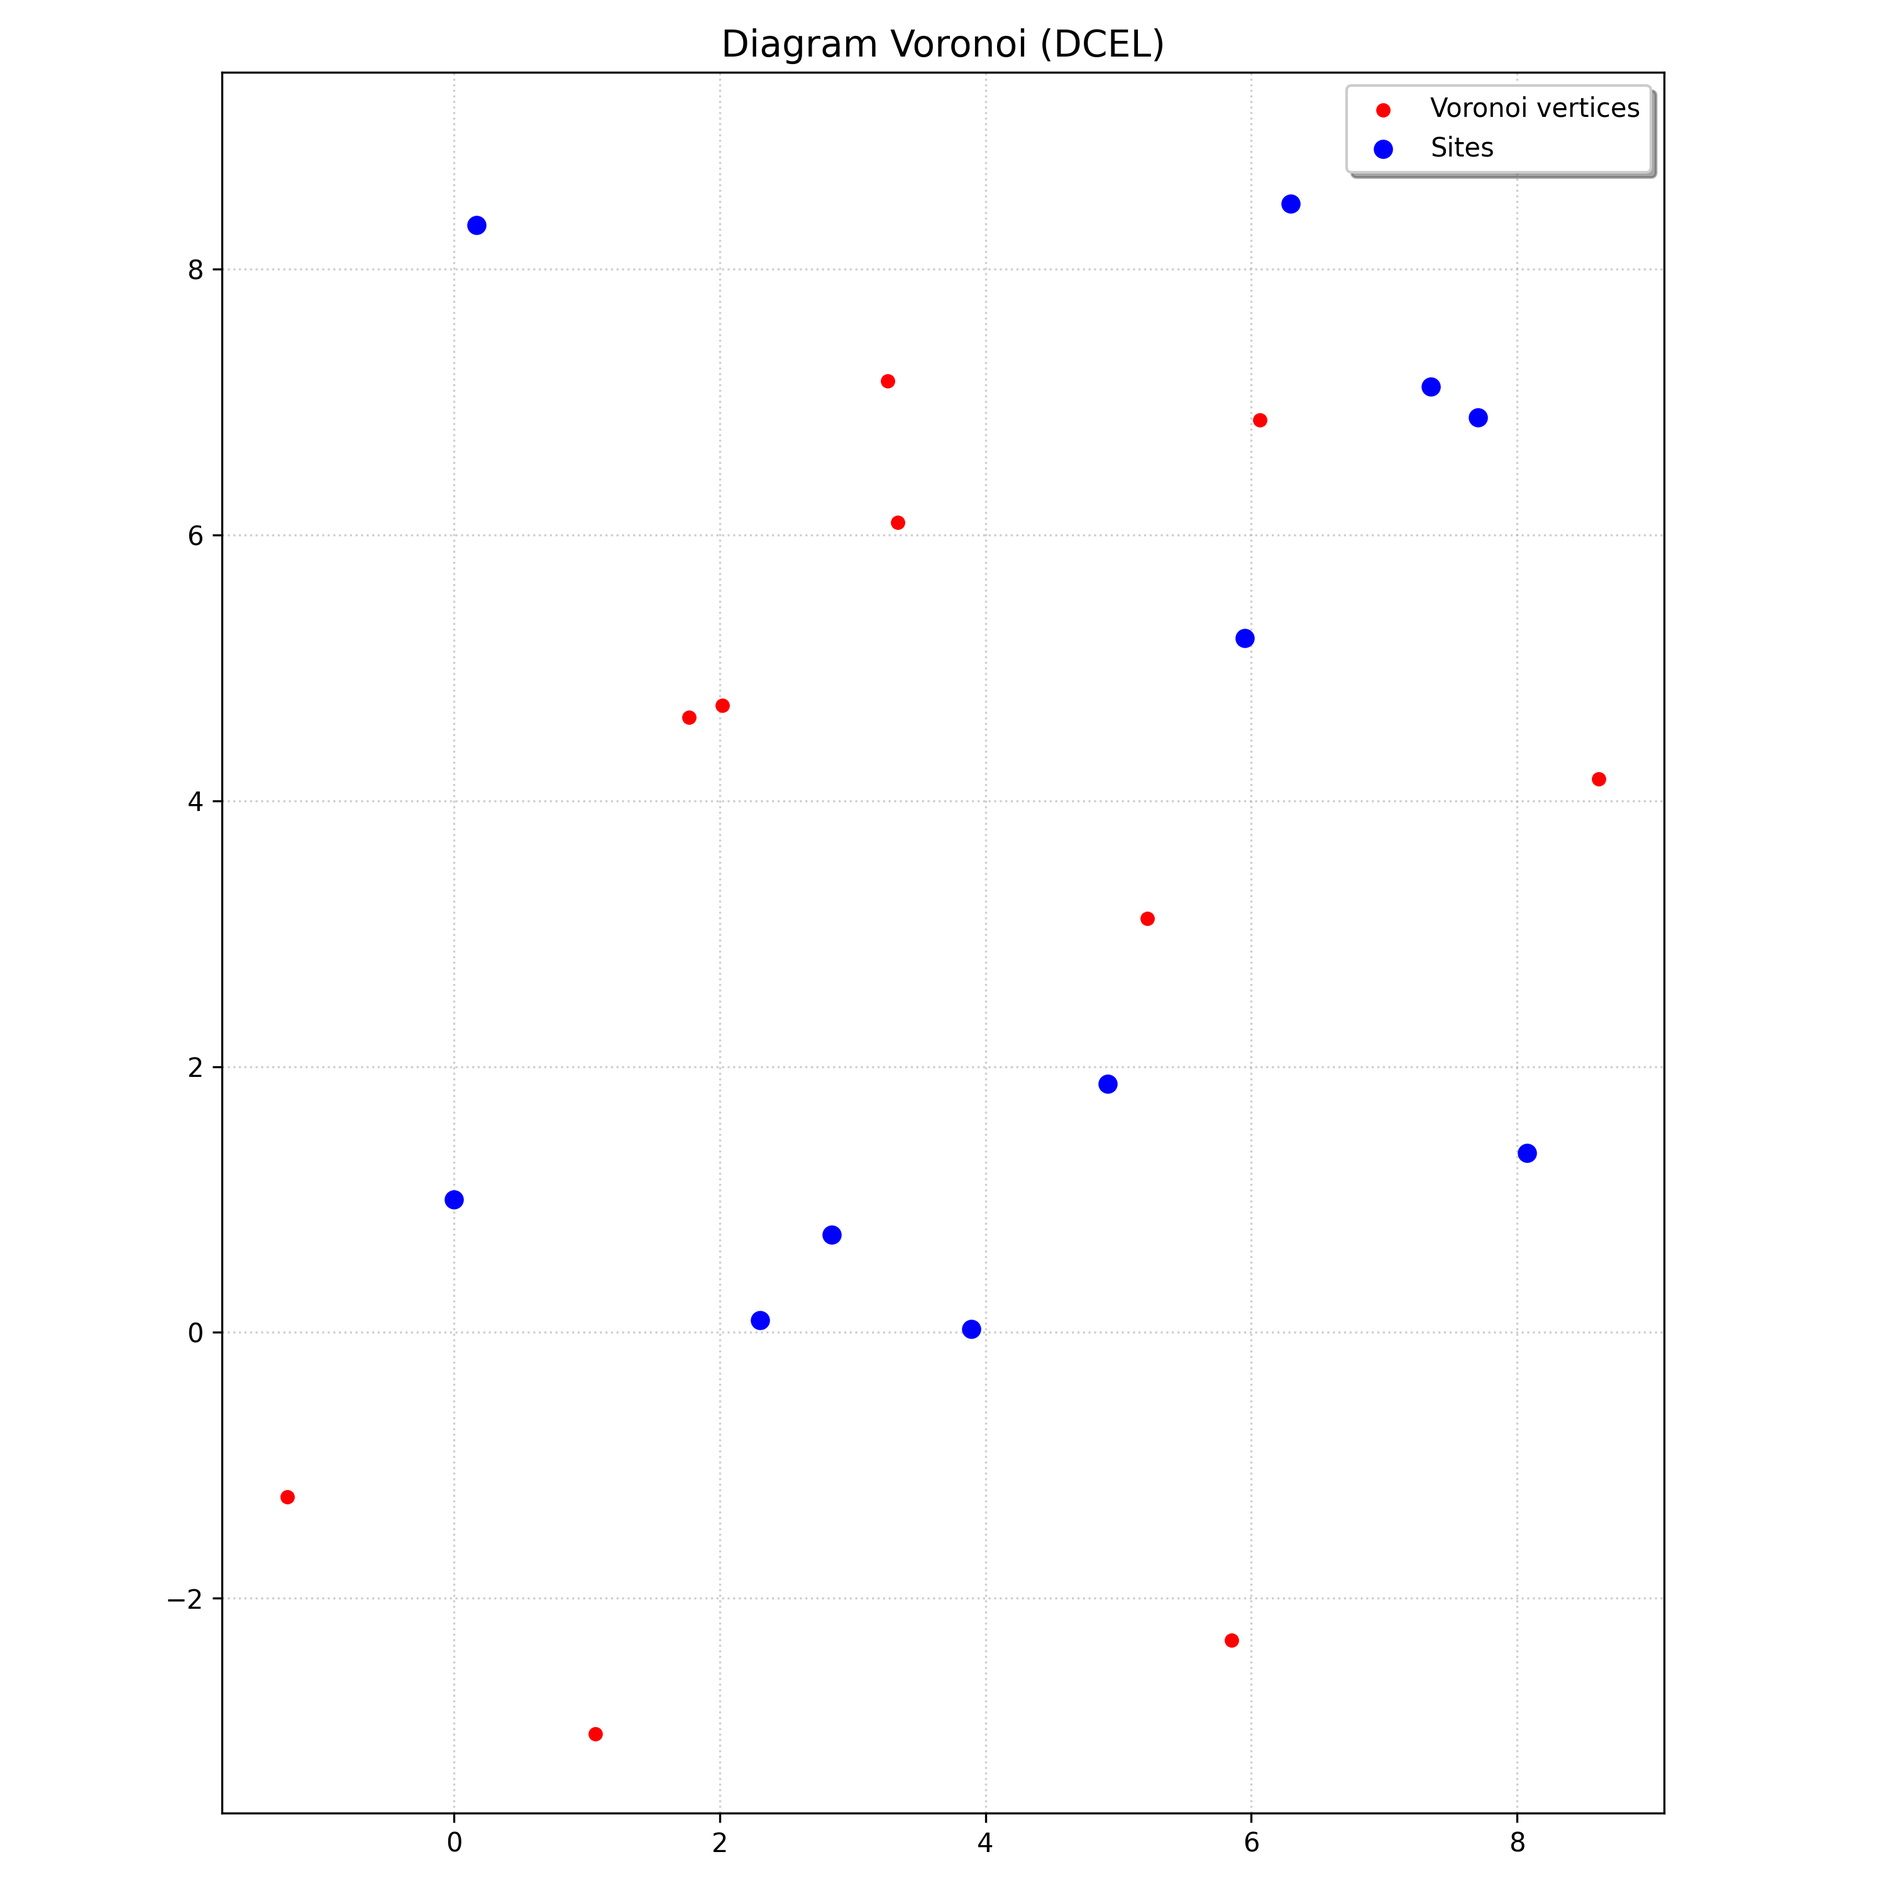
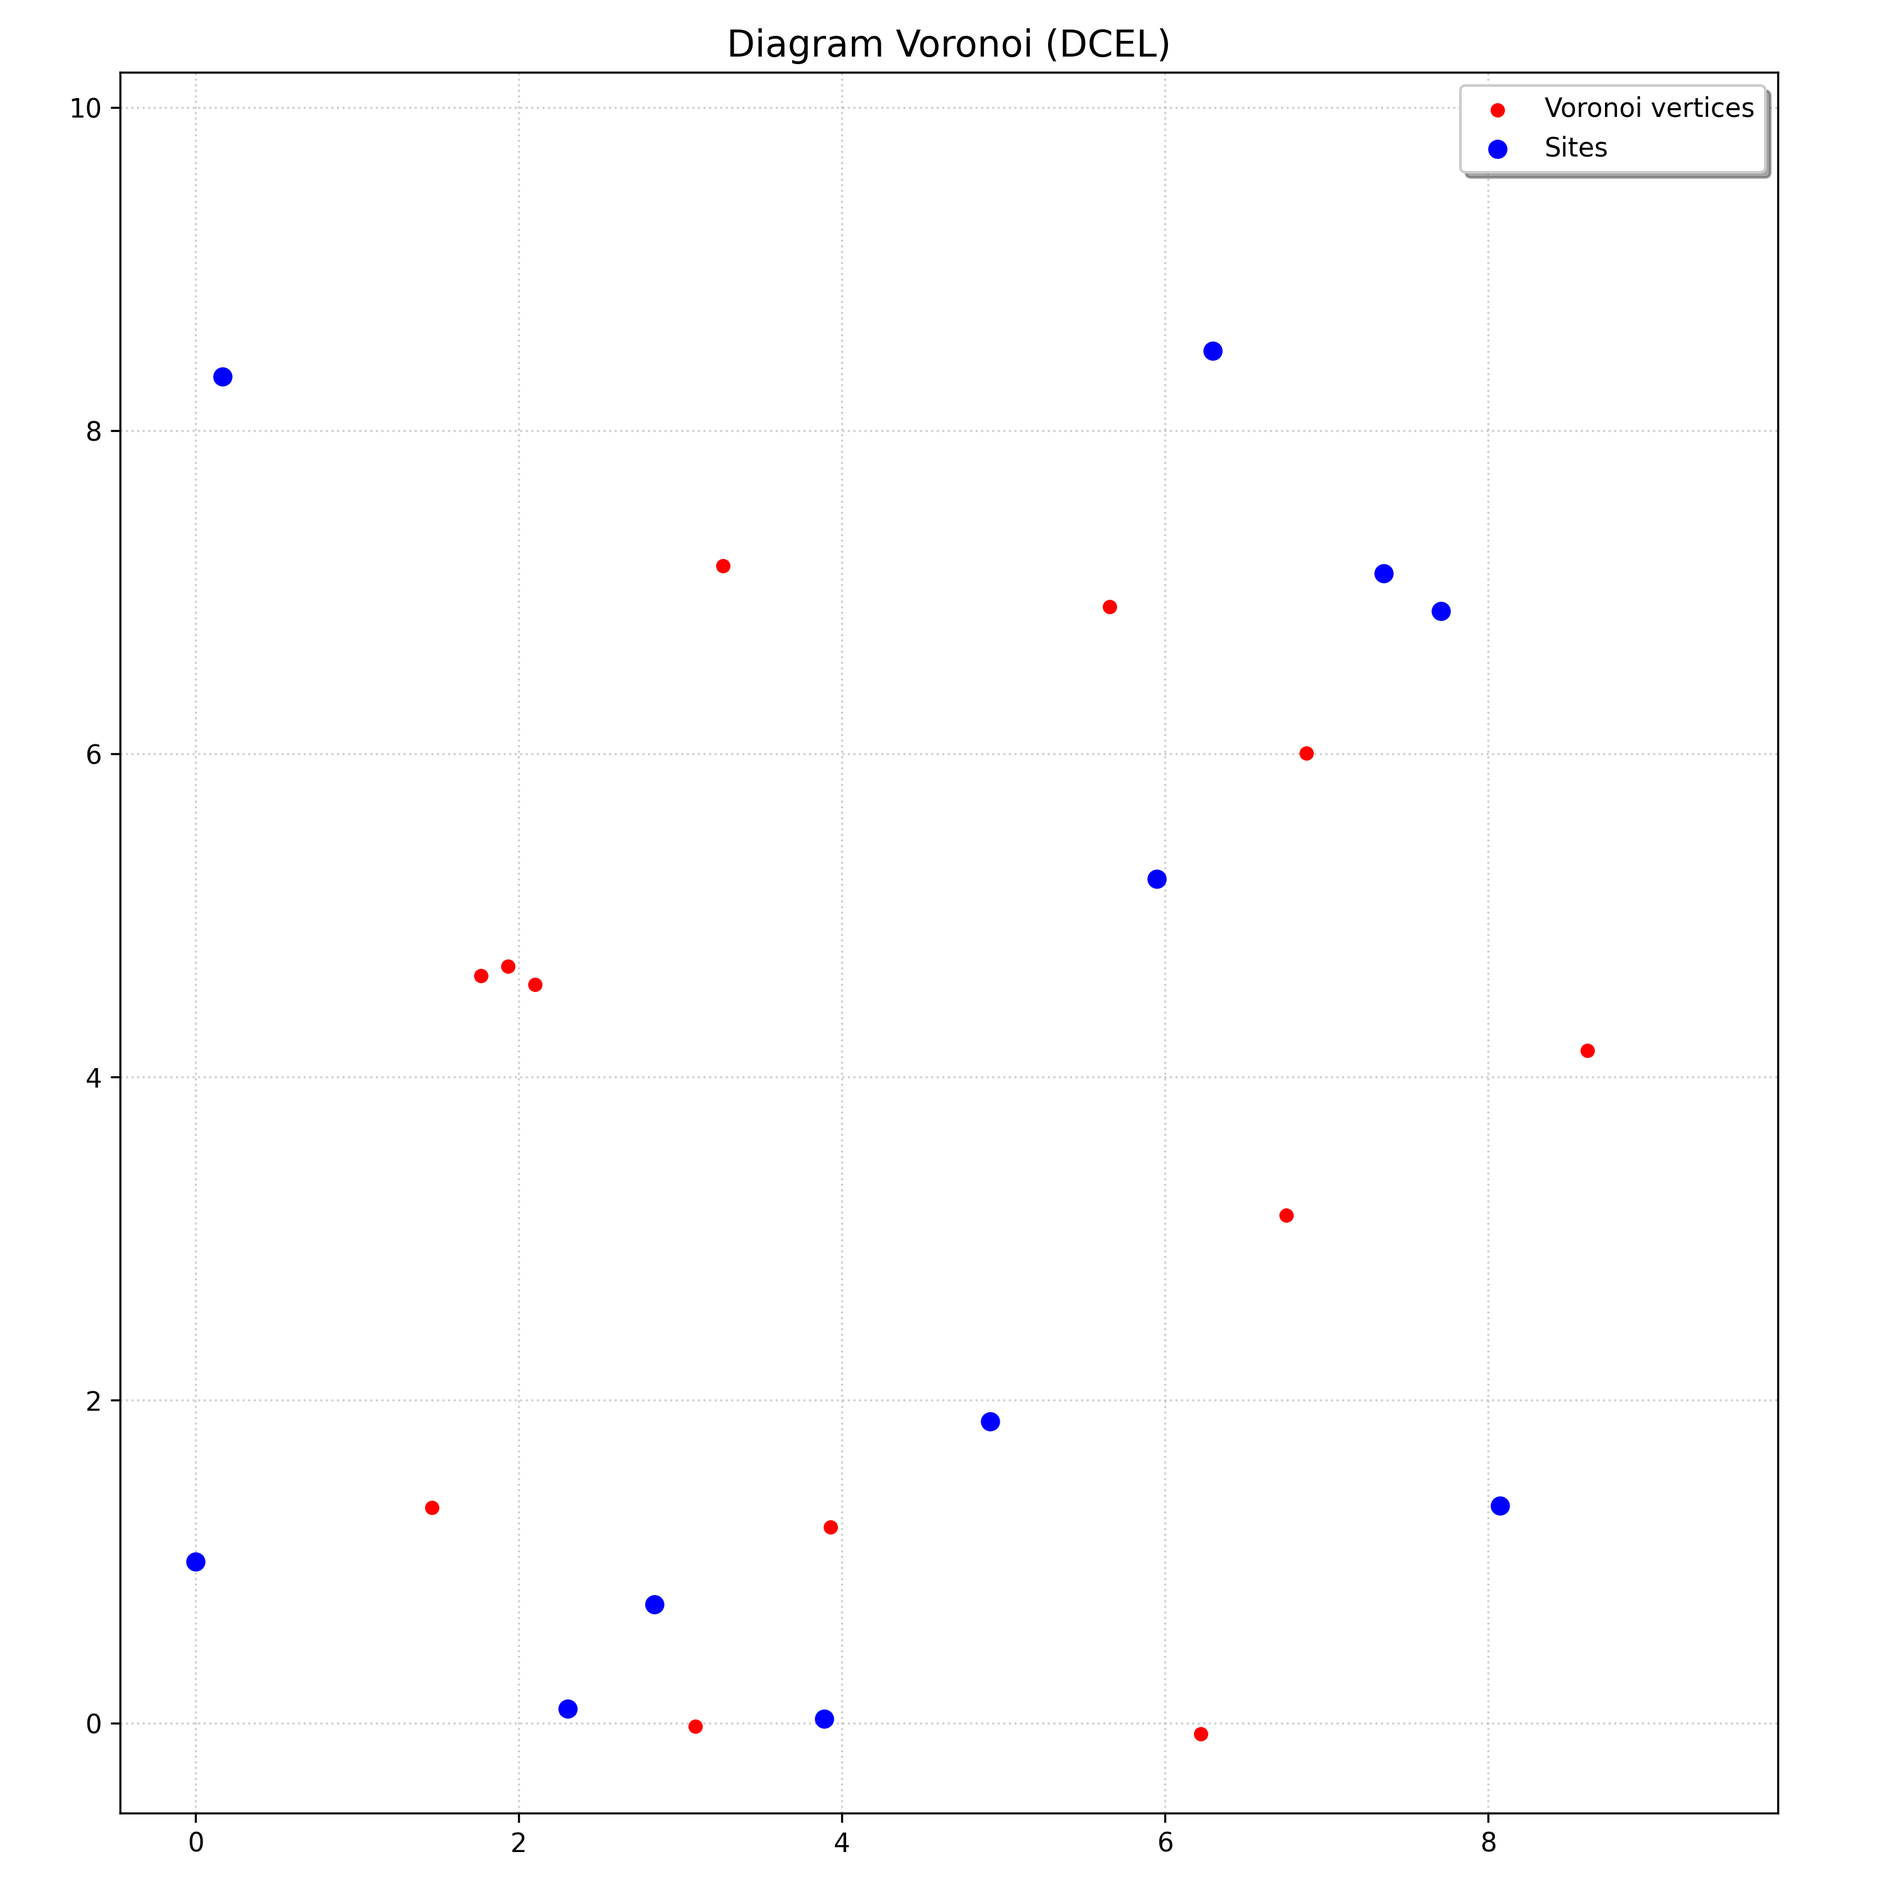
fix: FOUND THE FCKING ISSUE; count_x_breakpoint was wrong, so wrote func based on foronoi repo

diff --git a/src/structures/BST.py b/src/structures/BST.py
@@ -1,7 +1,10 @@
 from __future__ import annotations
 
+from logging import root
 import math
 import queue
+
+from src.structures.QE import SiteEvent
 
 class Root:
     def __init__(self, node=None):
@@ -99,6 +102,26 @@ class Root:
             # idziemy wyżej
             current = current.parent
 
+    def find_arc_above(root, event: SiteEvent, y_sweep: float):
+        curr = root.node
+        x = event.centre[0]
+
+        while isinstance(curr, Node):
+            xb = curr.count_x_breakpoint(y_sweep)
+            print("Breakpoint x for points ", curr.left_point, curr.right_point, " at y=", y_sweep, " is ", xb)
+            if xb is None:
+                raise RuntimeError(
+                    f"Invalid breakpoint for points "
+                    f"{curr.left_point}, {curr.right_point} at y={y_sweep}"
+                )
+
+            if x < xb:
+                curr = curr.left_child
+            else:
+                curr = curr.right_child
+
+        return curr
+
 
 class Node:
     """Break point on beachline, keeps 2 sorted centres by x,
@@ -113,31 +136,71 @@ class Node:
         self.right_child = None
         self.half_edge = None
 
-    def count_x_breakpoint(self,  y_sweep: float):
-        """Counts x breakpoint for node of 2 points and sweepline on new centre"""
+    def count_x_breakpoint(self, y_sweep: float):
+        """
+        Oblicza współrzędną x punktu przecięcia dwóch parabol.
+        
+        Parameters
+        ----------
+        y_sweep : float
+            Pozycja linii zamiatającej (sweep line)
+        
+        Returns
+        -------
+        float or None
+            Współrzędna x punktu przecięcia lub None jeśli nie istnieje
+        """
         x1, y1 = self.left_point
         x2, y2 = self.right_point
-
+        
+        # Przypadek gdy oba punkty mają tę samą współrzędną y
+        # (breakpoint jest dokładnie pośrodku)
         if y1 == y2:
-                return (x1 + x2) / 2
+            return (x1 + x2) / 2
         
-        a = y2 - y1
-        b = 2 * (-y2 * x1 + y1 * x2 + y_sweep * x1 - y_sweep * x2)
-        c = (y2 - y_sweep) * (x1**2 + y1**2 - y_sweep**2) - (y1 - y_sweep) * (
-            x2**2 + y2**2 - y_sweep**2
-        )
-
-        delta = b*b - 4*a*c
-        if delta < 0 or a == 0:
-                return None 
+        # Przypadek gdy lewy punkt jest na linii zamiatającej
+        if y1 == y_sweep:
+            return x1
         
-        x1_bp = (-b+math.sqrt(delta)) / (2*a)
-        x2_bp = (-b - math.sqrt(delta)) / (2 * a)
-
-        if x1 < x2:
-            return max(x1_bp, x2_bp)  # Prawy breakpoint
-        else:
-            return min(x1_bp, x2_bp)
+        # Przypadek gdy prawy punkt jest na linii zamiatającej
+        if y2 == y_sweep:
+            return x2
+        
+        # Podstawowe współczynniki równania
+        u = 2 * (y1 - y_sweep)
+        v = 2 * (y2 - y_sweep)
+        
+        # Sprawdzenie czy któryś mianownik jest zerem (parabola zdegenerowana)
+        if u == 0 or v == 0:
+            return None
+        
+        # Rozwiązanie równania kwadratowego:
+        # 1/u * (x² - 2*x1*x + x1² + y1² - y_sweep²) = 1/v * (x² - 2*x2*x + x2² + y2² - y_sweep²)
+        
+        # Po przekształceniu do postaci: (u-v)x² + 2(x2*v - x1*u)x + ... = 0
+        # zgodnie z algorytmem Wolframa Alpha użytym w foronoi:
+        
+        a = u - v
+        
+        if a == 0:
+            return None
+        
+        # Obliczenie pierwiastka z wzoru z foronoi
+        # x = -(sqrt(v * (x1² * u - 2*x1*x2*u + y1²*(u-v) + x2²*u) + y2²*u*(v-u) + y_sweep²*(u-v)²) + x1*v - x2*u) / (u-v)
+        
+        term1 = x1**2 * u - 2*x1*x2*u + y1**2*(u-v) + x2**2*u
+        term2 = y2**2 * u * (v-u)
+        term3 = y_sweep**2 * (u-v)**2
+        
+        discriminant = v * term1 + term2 + term3
+        
+        if discriminant < 0:
+            return None
+        
+        sqrt_term = math.sqrt(discriminant)
+        x = -(sqrt_term + x1*v - x2*u) / a
+        
+        return x
 
 
 class Leaf:
@@ -186,32 +249,3 @@ class Leaf:
             curr = curr.left_child
 
         return curr
-
-    @staticmethod
-    def remove_leaf(leaf: Leaf, root_obj: Root):
-        if leaf.parent is None:
-            # Jeśli liść jest jedynym elementem w drzewie
-            root_obj.node = None
-            return
-
-        parent = leaf.parent
-        grandparent = parent.parent
-        
-        # Wybieramy "brata" usuwanego liścia (drugie dziecko rodzica)
-        sibling = parent.right_child if parent.left_child == leaf else parent.left_child
-        
-        if grandparent is None:
-            # Rodzic był korzeniem, teraz brat staje się nowym korzeniem
-            root_obj.node = sibling
-            sibling.parent = None
-        else:
-            # Podpinamy brata bezpośrednio do dziadka
-            if grandparent.left_child == parent:
-                grandparent.left_child = sibling
-            else:
-                grandparent.right_child = sibling
-            sibling.parent = grandparent
-
-        # Opcjonalne: Czyszczenie referencji dla garbage collectora
-        leaf.parent = None
-        parent.left_child = parent.right_child = parent.parent = None

diff --git a/src/algorithms/site.py b/src/algorithms/site.py
@@ -12,7 +12,7 @@ def handle_site_event(root: Root, new_event: SiteEvent, queue: EventsQueue, dcel
         return root 
             
     # 2. Finds leaf of arc from beach line above the new point
-    arc_above = find_arc_above(root, new_event, y_sweep)
+    arc_above = Root.find_arc_above(root, new_event, y_sweep)
     print("Point representing arc above the new event: ", arc_above.centre)
 
     # Removes false alarm
@@ -55,7 +55,7 @@ def handle_site_event(root: Root, new_event: SiteEvent, queue: EventsQueue, dcel
             new_subtree.left_child,
             new_subtree.right_child.left_child,
         ]
-        check_circle_event(left_three_arcs, y_sweep, queue)
+        CircleEvent.check_circle_event(left_three_arcs, y_sweep, queue)
 
     if right_neighbour:
         right_three_arcs = [
@@ -63,27 +63,10 @@ def handle_site_event(root: Root, new_event: SiteEvent, queue: EventsQueue, dcel
             new_subtree.right_child.right_child,
             right_neighbour,
         ]
-        check_circle_event(right_three_arcs, y_sweep, queue)
+        CircleEvent.check_circle_event(right_three_arcs, y_sweep, queue)
 
     return root
 
-def find_arc_above(root: Root, event: SiteEvent, y_sweep:float):
-    """Finds arc above new found point by sweepline in BST"""
-    curr = root.node
-    new_point = event.centre
-    while isinstance(curr, Node):
-        print("actual points of node:", curr.left_point, curr.right_point)
-
-        xb = curr.count_x_breakpoint(y_sweep)
-        print("breakpoint:", xb)
-        
-        if  new_point[0] <= xb:
-            curr = curr.left_child
-        else:
-            curr = curr.right_child
-        
-    print("\nFound leaf above point:", curr.centre, "\n")
-    return curr
 
 def replace_with_subtree1(arc_above: Leaf, new_centre: list, dcel: DCEL) -> Node:
     """
@@ -222,55 +205,3 @@ def replace_with_subtree(arc_above: Leaf, new_centre: list, dcel: DCEL):
     dcel.half_edges.extend([edge_AB, edge_BA])
 
     return subtree_root
-
-def check_circle_event(arcs: list[Leaf], y_sweep: float, queue: EventsQueue):
-    """
-    Checks whether three consecutive arcs generate a valid circle event.
-    If yes, inserts it into the event queue.
-    """
-
-    a, b, c = arcs
-    A = a.centre
-    B = b.centre
-    C = c.centre
-
-    # --- usuwamy stare zdarzenie środkowego łuku ---
-    if b.circle_event is not None:
-        queue.remove_from_queue(b.circle_event)
-        b.circle_event = None
-
-    # --- orientacja: MUSI być zgodna z ruchem wskazówek zegara ---
-    # det < 0 → clockwise
-    det = (B[0] - A[0]) * (C[1] - A[1]) - (B[1] - A[1]) * (C[0] - A[0])
-
-    if det > 0:
-        return
-
-    # --- środek okręgu ---
-    ux, uy = CircleEvent.compute_circle_center(A, B, C)
-    if ux is None or uy is None:
-        return
-
-    # --- promień ---
-    dx = ux - B[0]
-    dy = uy - B[1]
-    radius = math.hypot(dx, dy)
-
-    # --- y zdarzenia (najniższy punkt okręgu) ---
-    event_y = uy - radius
-
-    # zdarzenie musi być poniżej sweep line
-    # if event_y >= y_sweep:
-    #     return
-
-    # --- tworzymy zdarzenie ---
-    event_point = (ux, event_y)
-    event = CircleEvent(point=event_point, leaf_pointer=b)
-    event.circle_center = (ux, uy)
-    event.radius = radius
-    event.triple_arcs = (a, b, c)
-    event.triple_points = (A, B, C)
-    event.is_valid = True
-
-    b.circle_event = event
-    queue.insert_event(event)

diff --git a/src/structures/QE.py b/src/structures/QE.py
@@ -1,4 +1,7 @@
-from src.structures.BST import Leaf
+from typing import TYPE_CHECKING
+
+if TYPE_CHECKING:
+    from src.structures.QE import Leaf
 import math
 
 class EventsQueue:
@@ -13,12 +16,6 @@ class EventsQueue:
 
         self.all_events = sorted(self.site_events, key = lambda event:event.centre[1], reverse=True)
         
-    def inicialize_queue(self):
-        """Initialize queue by filling up with upcoming site_events and sorts them descending by y"""
-        self.points.sort(key=lambda point:point[1], reverse=True)
-        for point in self.points:
-            self.all_events.append(SiteEvent(point))
-
     def insert_event(self, event):
         self.all_events.append(event)
         self.all_events.sort(key=lambda e: (e.centre[1], 1 if isinstance(e, CircleEvent) else 0))
@@ -38,7 +35,7 @@ class SiteEvent:
 
 
 class CircleEvent:
-    def __init__(self, point: list, leaf_pointer: Leaf):
+    def __init__(self, point: list, leaf_pointer: "Leaf"):
         self.centre = point
         self.leaf_pointer = leaf_pointer
         self.radius = None
@@ -80,14 +77,55 @@ class CircleEvent:
         return ox, oy
 
     @staticmethod
-    def _calculate_angle(point, center):
-        return math.atan2(point[1] - center[1], point[0]- center[0])
+    def check_circle_event(arcs: list(), y_sweep: float, queue: EventsQueue):
+        """
+        Checks whether three consecutive arcs generate a valid circle event.
+        If yes, inserts it into the event queue.
+        """
 
-    @staticmethod
-    def check_clockwise(a, b, c, center):
-        ang_a = CircleEvent._calculate_angle(a, center)
-        ang_b = CircleEvent._calculate_angle(b, center)
-        ang_c = CircleEvent._calculate_angle(c, center)
+        a, b, c = arcs
+        A = a.centre
+        B = b.centre
+        C = c.centre
 
-        return (ang_c - ang_a) % (2 * math.pi) <= (ang_c - ang_b) % (2 * math.pi)
+        # --- usuwamy stare zdarzenie środkowego łuku ---
+        if b.circle_event is not None:
+            queue.remove_from_queue(b.circle_event)
+            b.circle_event = None
+
+        # --- orientacja: MUSI być zgodna z ruchem wskazówek zegara ---
+        # det < 0 → clockwise
+        det = (B[0] - A[0]) * (C[1] - A[1]) - (B[1] - A[1]) * (C[0] - A[0])
+
+        if det > 0:
+            return
+
+        # --- środek okręgu ---
+        ux, uy = CircleEvent.compute_circle_center(A, B, C)
+        if ux is None or uy is None:
+            return
+
+        # --- promień ---
+        dx = ux - B[0]
+        dy = uy - B[1]
+        radius = math.hypot(dx, dy)
+
+        # --- y zdarzenia (najniższy punkt okręgu) ---
+        event_y = uy - radius
+
+        # zdarzenie musi być poniżej sweep line
+        if event_y >= y_sweep:
+            return
+
+        # --- tworzymy zdarzenie ---
+        event_point = (ux, event_y)
+        event = CircleEvent(point=event_point, leaf_pointer=b)
+        event.circle_center = (ux, uy)
+        event.radius = radius
+        event.triple_arcs = (a, b, c)
+        event.triple_points = (A, B, C)
+        event.is_valid = True
+
+        b.circle_event = event
+        queue.insert_event(event)
 

diff --git a/src/algorithms/circle.py b/src/algorithms/circle.py
@@ -3,7 +3,6 @@ import math
 from src.structures.QE import EventsQueue, CircleEvent
 from src.structures.DCEL import DCEL, Vertex, HalfEdge, Face
 from src.structures.BST import Leaf, Node, Root
-from src.algorithms.site import check_circle_event
 
 def handle_circle_event(
     event: CircleEvent, y_sweep: float, root: Root, queue: EventsQueue, dcel: DCEL
@@ -74,10 +73,9 @@ def handle_circle_event(
     # 8. Sprawdzamy nowe circle eventy
     left_left = left_arc.predecessor()
     if left_left:
-        check_circle_event([left_left, left_arc, right_arc], y_sweep, queue)
+        CircleEvent.check_circle_event([left_left, left_arc, right_arc], y_sweep, queue)
 
     right_right = right_arc.successor()
     if right_right:
-        check_circle_event([left_arc, right_arc, right_right], y_sweep, queue)
-
+        CircleEvent.check_circle_event([left_arc, right_arc, right_right], y_sweep, queue)
     return root
